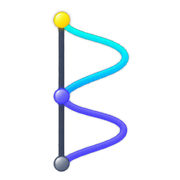
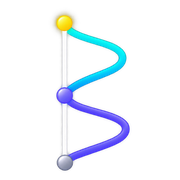
Sin destello blanco al abrir y nuevo ícono de la B
- index.html pinta el fondo oscuro de la animación desde el primer instante (color-scheme dark y
  estilo en línea), antes de que cargue el CSS o la app.
- Ícono nuevo (tronco claro) en el menú lateral, favicon y apple-touch-icon; reemplaza al anterior.

diff --git a/app/frontend/index.html b/app/frontend/index.html
@@ -3,6 +3,19 @@
   <head>
     <meta charset="UTF-8" />
     <meta name="viewport" content="width=device-width, initial-scale=1.0" />
+    <!-- Fondo oscuro desde el primer instante (antes de que cargue el CSS), para que no haya destello blanco al abrir. -->
+    <meta name="color-scheme" content="dark" />
+    <meta name="theme-color" content="#0e1016" />
+    <style>
+      html,
+      body {
+        background: #0e1016;
+      }
+      #root:empty {
+        min-height: 100vh;
+        background: radial-gradient(circle at 50% 38%, #1a1f2b 0%, #0e1016 70%);
+      }
+    </style>
     <title>BranchBoard</title>
     <link rel="icon" type="image/png" sizes="256x256" href="/favicon.png" />
     <link rel="icon" href="/favicon.ico" sizes="any" />

diff --git a/documentacion/FRONTEND.md b/documentacion/FRONTEND.md
@@ -232,6 +232,7 @@ El panel **"Permisos de subtareas simples"** se eliminó: los colaboradores exte
 
 Al abrir BranchBoard, antes de mostrar la Pantalla inicial, se muestra una **animación de splash** (logo animado) mientras corren en paralelo las verificaciones de arranque: `estado_warp()`, y si WARP está conectado, `cm whoami` + listar workspaces (ver [Autenticación / acceso al proyecto](#autenticación--acceso-al-proyecto)). Sirve para no mostrar una pantalla en blanco/congelada mientras esas llamadas async resuelven.
 
+- **Sin destello blanco al abrir** (2026-11-07): `index.html` pinta el fondo oscuro (el mismo de la animación) desde el primer instante, antes de que cargue el CSS o la app (`color-scheme: dark` y un estilo en línea).
 - Duración: hasta que terminen las verificaciones, con un mínimo breve (ej. ~600ms) para que no se sienta como un parpadeo si todo responde instantáneo.
 - Pendiente definir: estilo exacto de la animación (logo con loop simple vs. algo más elaborado) — no es prioridad de lógica, es una mejora de percepción de carga.
 - **Implementado en el mockup** (`SplashScreen.tsx`): grafo de ramas que se dibuja nodo por nodo y **forma una B** (actualizado 2026-11-07): el tronco vertical, una rama abajo (azul) que sale del nodo inicial y se une al **nodo del medio**, y otra arriba (verde azulado), **más grande**, que sale del nodo del medio y llega al nodo final; las dos con la misma curva suave tipo **parábola** de la animación original (salen del tronco, llegan a su punto más lejano y vuelven); se probaron panzas redondas y carriles rectos, y se descartaron; los **puntos solo van donde las ramas se conectan con el tronco** (abajo gris, en el medio azul y arriba amarillo) y aparecen uno a uno cuando cada rama llega; las dos ramas se dibujan como **un solo trazo continuo**, sin pausas (cada trazo usa su longitud real y la velocidad se empalma en el nodo del medio); la **cabeza del tronco sube al ritmo de las ramas**: llega al nodo del medio y al de arriba justo cuando llega cada rama; el último nodo (amarillo) brilla con un **halo amarillo que late** detrás del punto; termina en el wordmark. Dura lo mismo que antes (~2.4 s). El último nodo (donde termina el merge) es **amarillo** (`#facc15`) con un **brillo amarillo** pulsante; los demás nodos conservan sus colores.
